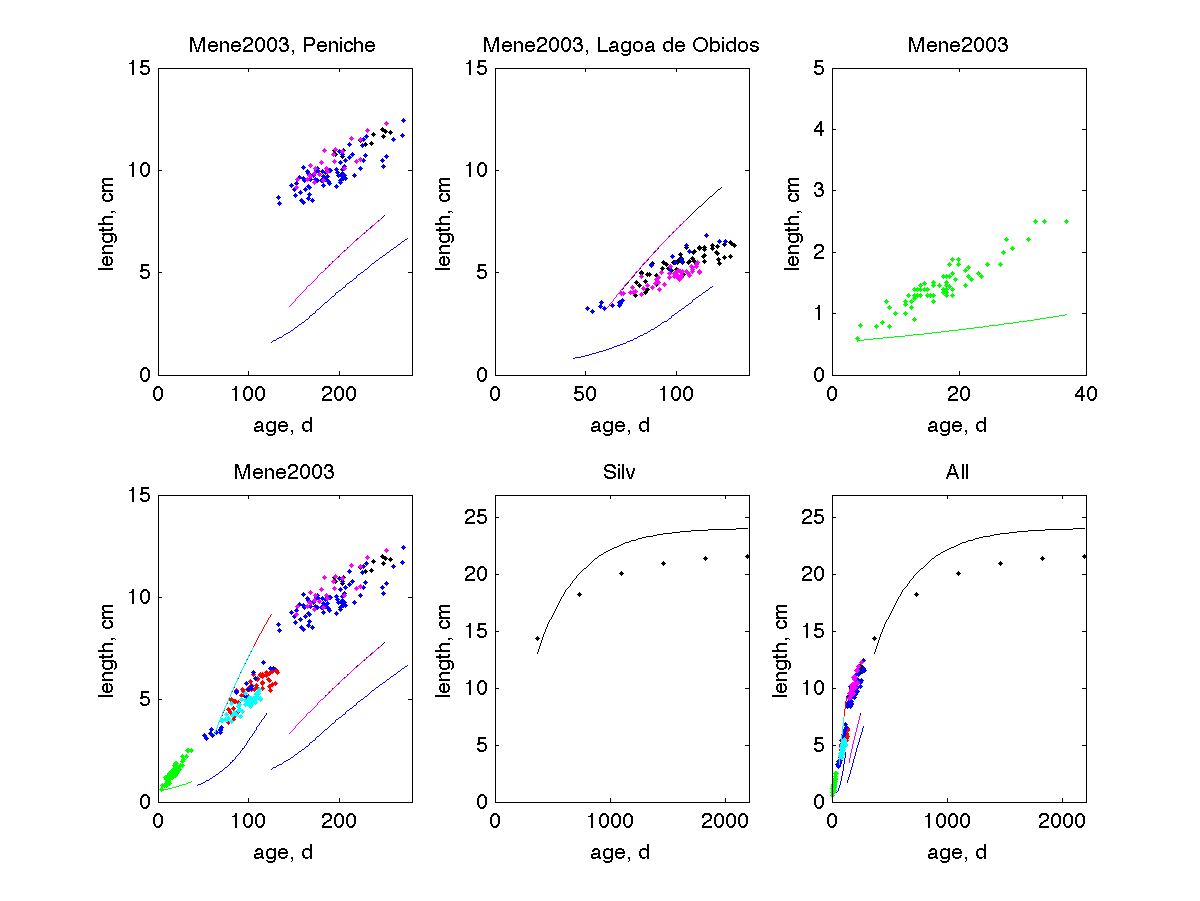
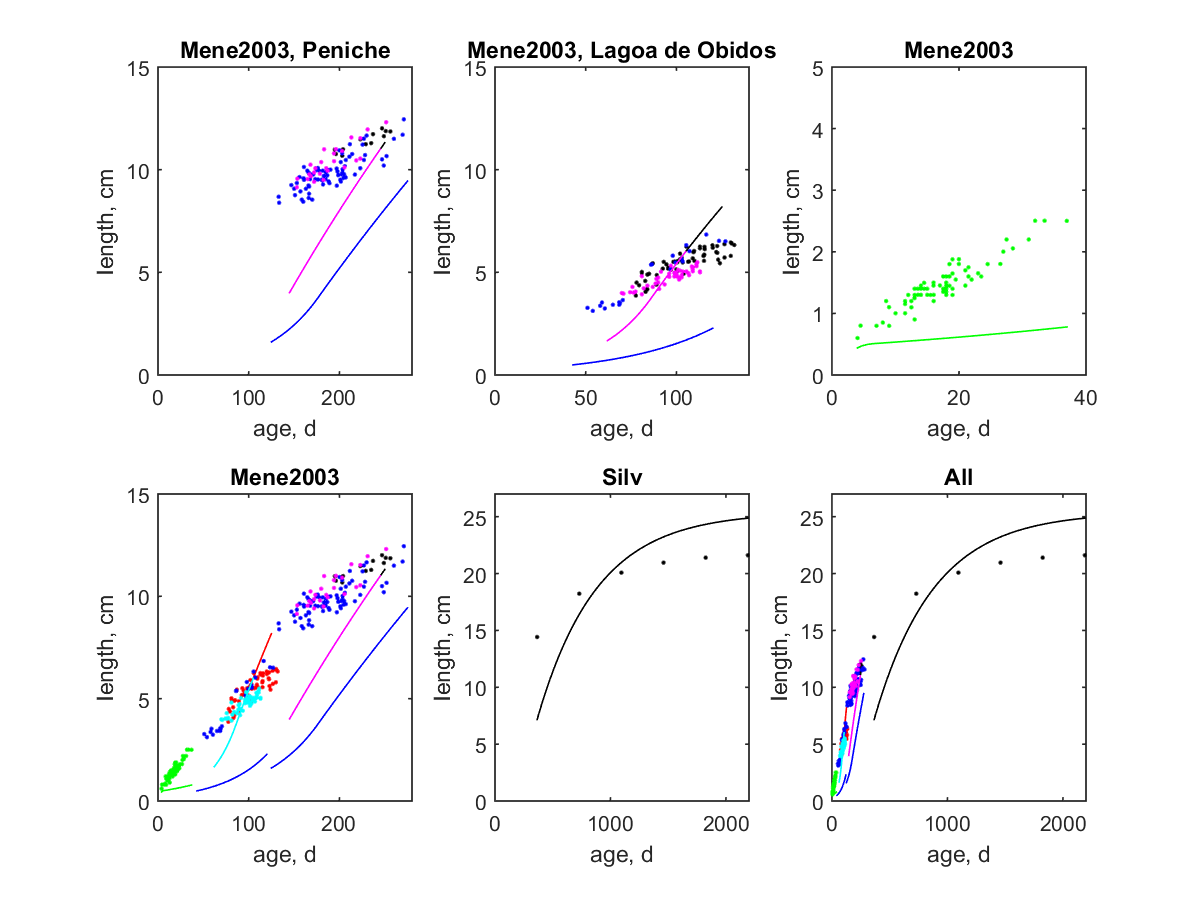
Several new changes
New constraints in predict.
New printing lines in custom_results
New psd in my_data

diff --git a/sardina_pilchardus_abj/run_Sardina_pilchardus.m b/sardina_pilchardus_abj/run_Sardina_pilchardus.m
@@ -23,15 +23,17 @@ estim_options('default'); % runs estimation, uses nmregr method and filter
 %                     (prints results to screen using a customized results file when there is one)
 % 'report'        :   0 - does not print to screen the step numbers and the corresponding simplex ssq values 
 
+% estim_options('method', 'no');
+estim_options('method', 'nm');
 estim_options('max_step_number',800); % set options for parameter estimation
 estim_options('max_fun_evals',5e3);  % set options for parameter estimation
+estim_options('simplex_size', -0.05);
 %estim_options('report',0);  % save time during the estimation 
 
-estim_options('pars_init_method', 2);
+estim_options('pars_init_method', 1);
 estim_options('results_output', 1);
-estim_options('method', 'no');
- estim_pars; % run estimation
- return
+estim_pars; % run estimation
+return
 
 
 fprintf('estimation 1 ---- \n');
@@ -42,10 +44,10 @@ pause
 
 estim_options('pars_init_method', 1); % from .mat file
 nm_estim = 4;
-for i = 2:nm_estim
+for i = 1:nm_estim
     fprintf(['estimation ', num2str(i), ' ---- \n']);
     
-    if mod(i,2)
+    if 1 %mod(i,2)
       estim_options('simplex_size', -0.05); % WLS estimate parameters using overwrite  
     else
       estim_options('simplex_size', 0.05); % WLS estimate parameters using overwrite  

diff --git a/sardina_pilchardus_abj/predict_Sardina_pilchardus.m b/sardina_pilchardus_abj/predict_Sardina_pilchardus.m
@@ -64,8 +64,14 @@ function [prdData, info] = predict_Sardina_pilchardus(par, data, auxData)
     prdData = {};
     return
   end
-  
-  if kap_G >= mu_V / mu_E || kap_X >= mu_X / mu_E  % constraint required for mass conservation and no production of CO2
+
+  if mu_E < mu_V  % fraction
+    info = 0;
+    prdData = {};
+    return
+  end
+   
+  if kap_G >= mu_V / mu_E %|| kap_X >= mu_X / mu_E  % constraint required for mass conservation and no production of CO2
     info = 0;
     prdData = {};
     return
@@ -197,6 +203,8 @@ function [prdData, info] = predict_Sardina_pilchardus(par, data, auxData)
   prdData.Ri  = RT_i;
   prdData.Wd0 = Wd_0;
   prdData.E0  = E_0;
+  
+  prdData.psd_mu_E  = mu_E;
   
   % uni-variate data
   

diff --git a/sardina_pilchardus_abj/custom_results_Sardina_pilchardus.m b/sardina_pilchardus_abj/custom_results_Sardina_pilchardus.m
@@ -63,8 +63,10 @@ function custom_results_Sardina_pilchardus(par, metaPar, data, txtData, auxData)
   if isfield(stat,'s_M')
     fprintf(['\n acceleration factor s_M is ', num2str(stat.s_M), ' \n'])
   end
-  
-   fprintf(['\n age at metamorphosis at ', num2str(stat.T - 273.15),' degC is ', num2str(stat.a_j), 'd \n'])
+  fprintf(['age at metamorphosis at ', num2str(stat.T - 273.15),' degC is ', num2str(stat.a_j), 'd \n'])
+  fprintf(['d_E = ', num2str(par.d_E),'  \n'])
+  fprintf(['mu_E = ', num2str(par.mu_E),' J/mol \n'])
+  fprintf(['kap_G < ', num2str(par.mu_V/par.mu_E),' and kap_X < ', num2str(par.mu_X/par.mu_E),' \n'])
 
   % unpack data & predictions
   v2struct(data)

diff --git a/sardina_pilchardus_abj/mydata_Sardina_pilchardus.m b/sardina_pilchardus_abj/mydata_Sardina_pilchardus.m
@@ -1205,6 +1205,10 @@ weights.Lj = 20 * weights.Lj;
 %% set pseudodata and respective weights
 % (pseudo data are in data.psd and weights are in weights.psd)
 [data, units, label, weights] = addpseudodata(data, units, label, weights);
+data.psd.kap_G = 0.6; % smaller kap_G to allow for greater mu_E
+
+data.psd_mu_E = 650000;      units.psd_mu_E = 'g/cm^3';    label.psd_mu_E = 'density of reserve';       % bibkey.psd.d_E = 'Fill';    
+weights.psd_mu_E = 10 * 1 ./ data.psd_mu_E^2;
 
 % data.psd.d_E = 0.4;      units.psd.d_E = 'g/cm^3';    label.psd.d_E = 'density of reserve';       % bibkey.psd.d_E = 'Fill';    
 % weights.psd.d_E = 10 * 1 ./ data.psd.d_E^2;
